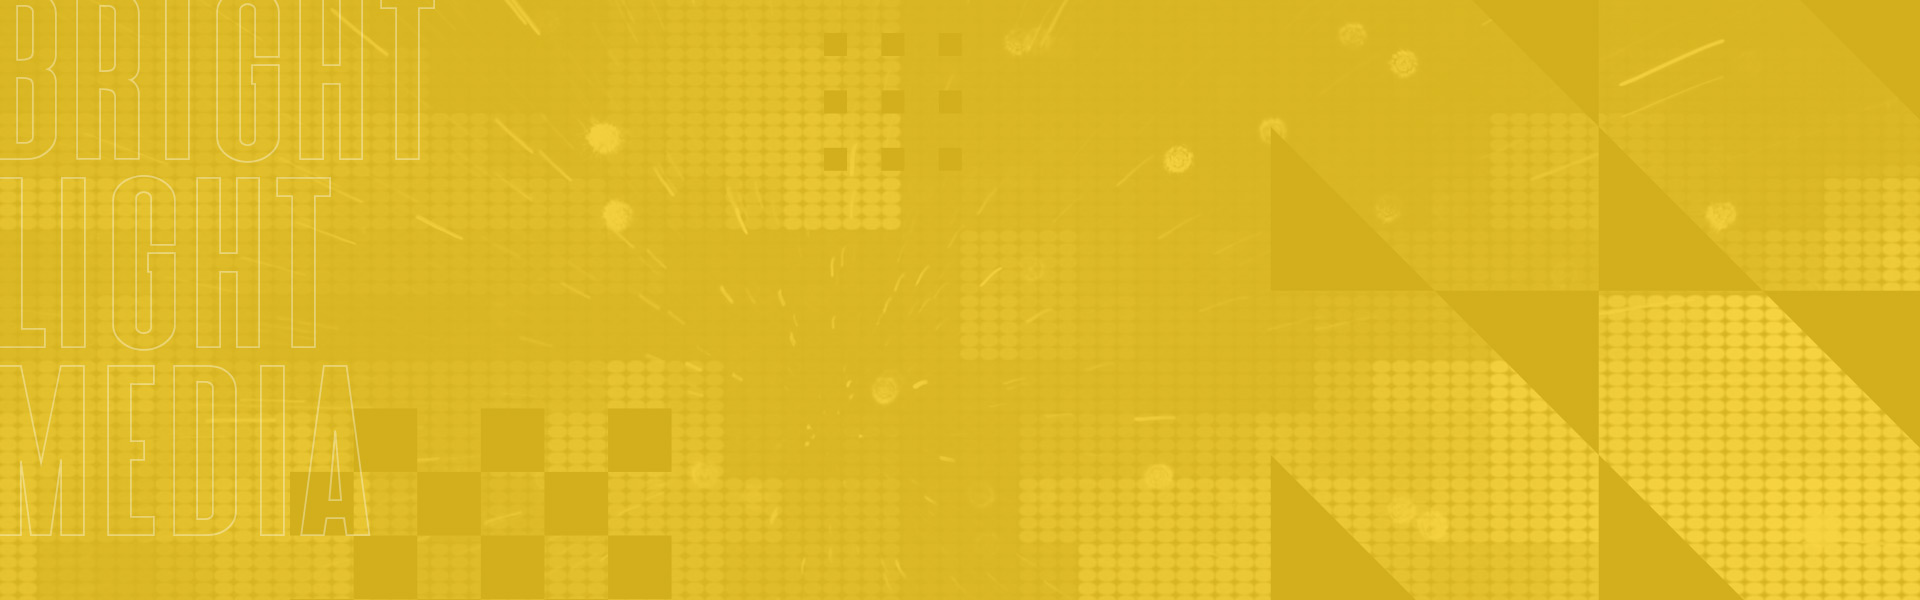
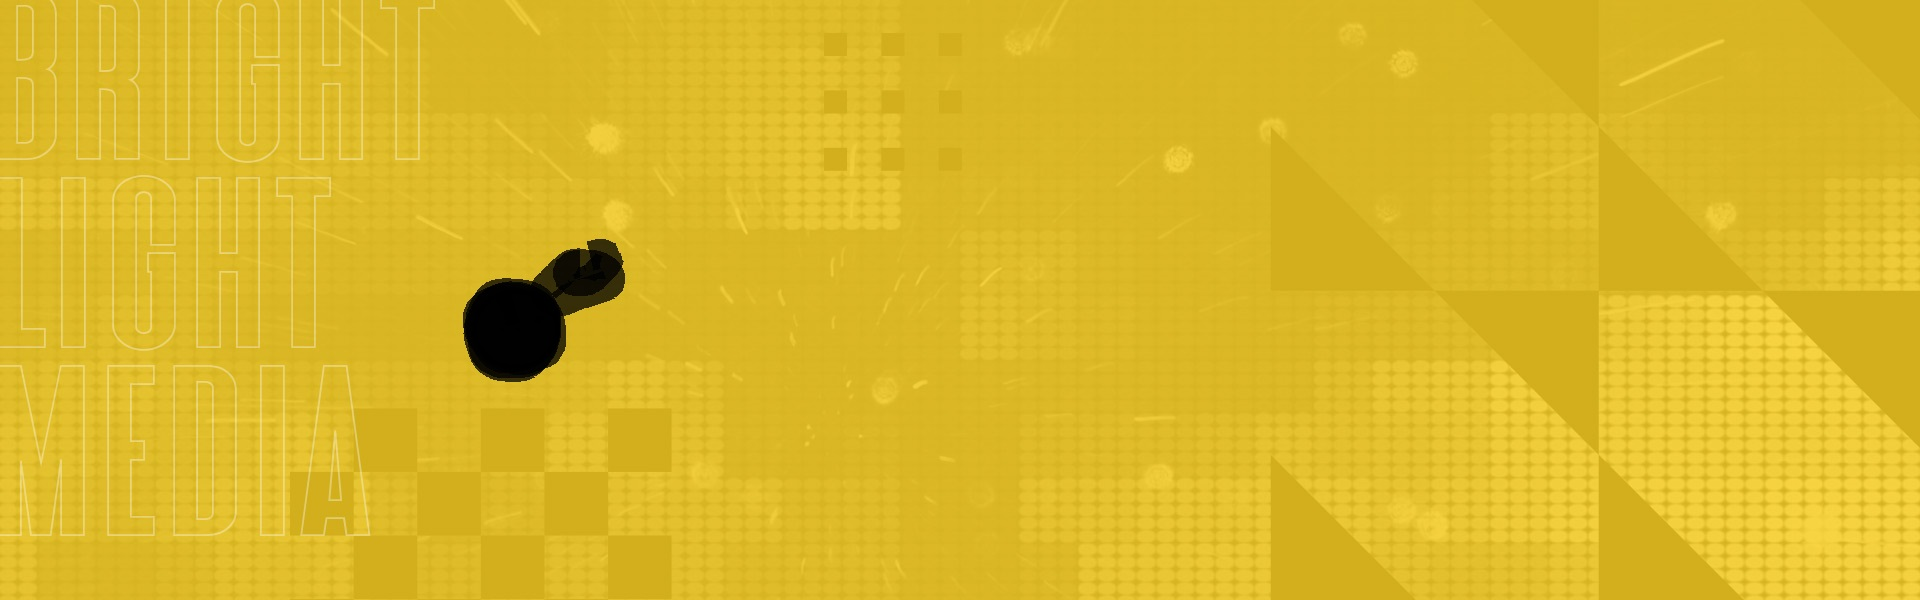
gif img header

Changed region(s): [[0.2188, 0.39, 0.3438, 0.66]]

diff --git a/styles.css b/styles.css
@@ -35,14 +35,15 @@ header .profile {
 }
 
 header .profile img {
+  visibility: visible; /* Asegura que el GIF esté siempre visible */
   width: 100%; /* Ocupa todo el espacio disponible dentro del contenedor */
   max-width: 400px; /* Controla el tamaño máximo de la imagen */
   height: auto; /* Ajusta la altura automáticamente para mantener la proporción */
   mask-image: radial-gradient(
-    circle,
-    rgba(0, 0, 0, 1) 36%,
-    rgba(0, 0, 0, 0.5) 68%,
-    rgba(0, 0, 0, 0) 85%
+    ellipse 60% 79% at 50% 55%,
+    /* Define un óvalo con el tamaño y la posición */ rgba(0, 0, 0, 1) 56%,
+    /* El centro del óvalo será totalmente opaco */ rgba(0, 0, 0, 0.5) 73%,
+    /* Gradiente de opacidad a 50% */ rgba(0, 0, 0, 0) 82%
   );
 }
 
@@ -339,7 +340,7 @@ body.dark-mode {
 
 header.dark-mode {
   background-image: url(./src/img/header-dark1.jpg);
-  /* background-color: #474747;*/
+
   color: #fff;
 }
 

diff --git a/index.html b/index.html
@@ -89,7 +89,7 @@
       <div class="container">
         <div class="profile">
           <!-- -->
-          <img src="./src/img/fotocara2.png" alt="Foto de Perfil" />
+          <img src="./src/img/fotocaraGIF5.gif" alt="Foto de Perfil" />
           <div class="profile-text ms-3">
             <h1>Dario Hernan Guaraz</h1>
             <h3 class="blink">[Full Stack Developer]</h3>
